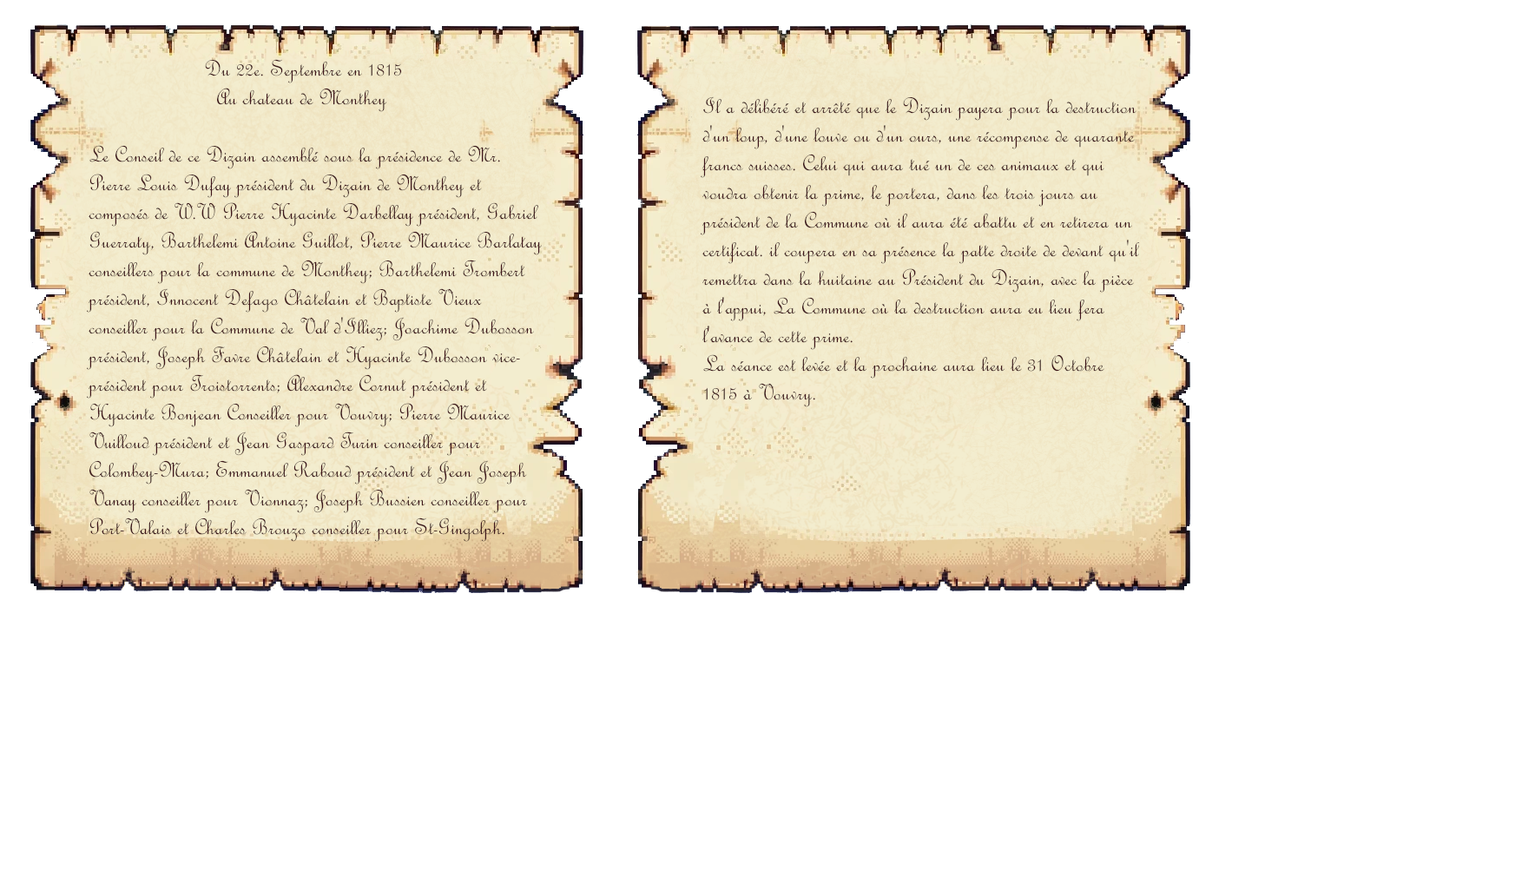
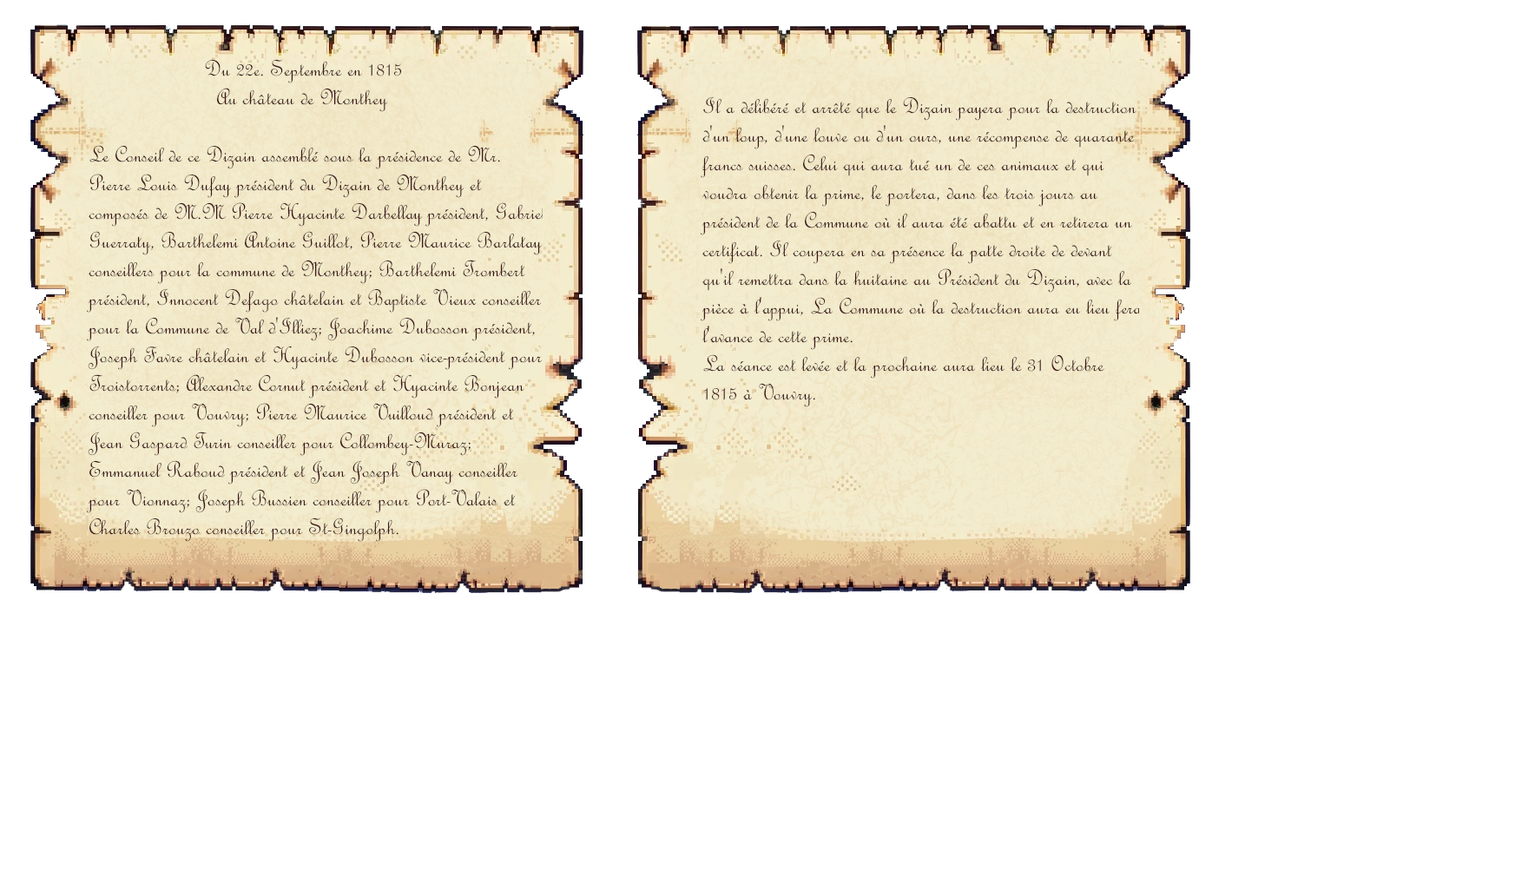
correction orthographe

diff --git a/src/content/Instruction_texte.js b/src/content/Instruction_texte.js
@@ -46,16 +46,16 @@ const french_Pont = [
         "Appuie sur enter pour fermer le carnet",
     ],
     [
-        "Navigue dans le carnet avec la souris et en appuyant sur les flèches droite et gauche du clavier. Pour chaque profil, trouve une ou deux preuves qui excluent la personne d'être celle représentée sur le tableau"
-    ],
+        "Navigue dans le carnet avec la souris et en appuyant sur les flèches droite et gauche du clavier. Trouve, pour chaque personnage, une ou deux preuves qui montrent que ça ne peut pas être la personne représentée sur le tableau"
+    ],                                                                                                     
     [
-        "Pour découvrir à qui appartient le mystérieux tableau, tu vas devoir éliminer un profil après l'autre. Pour cela, tu auras besoin d'indices que tu découvriras en explorant les environs. Découvre ton premier indice et reviens sur cette page !"
+        "Pour découvrir à qui appartient le mystérieux tableau, tu vas devoir éliminer un personnage après l'autre. Pour cela, tu auras besoin d'indices que tu découvriras en explorant les environs. Découvre ton premier indice et reviens sur cette page !"
     ],
     [
         "Appuie sur enter"
     ],
     [
-        "Afin de découvrir à qui appartient le mystérieux tableau, tu vas devoir éliminer un profil après l'autre. Pour se faire, tu vas partir à la chasse à l'indice... quels éléments du texte de la page de droite ou du document de la page de gauche t'indiquent que cette personne n'est pas la bonne ? Dans le cas d'Alphonse Beck, le journal du jour nous indique que nous sommes le 31 octobre 1815, mais Alphonse Beck naît en 1822, il ne peut donc pas être le destinataire du tableau. Dans le profil de Beck, tu vas pouvoir cliquer avec ta souris sur '1822' dans le texte et sur '1815' sur le document, afin d'éliminer Beck de la liste des potentiels propriétaires. Trouve les preuves dans les autres profils jusqu'à ce qu'il ne t'en reste qu'un seul ! Tous les profils ne nécessitent pas deux preuves, parfois il te faudra cliquer une fois, parfois deux. Bonne Chance !"
+        "Tu dois découvrir à qui appartient le mystérieux tableau et le lui remettre en main propre. Tu vas devoir éliminer un personnage après l'autre. Pour ce faire, tu vas partir à la chasse à l'indice... quels éléments du texte de la page de droite ou du document de la page de gauche t'indiquent que cette personne n'est pas la bonne ? Dans le cas d'Alphonse Beck, le journal du jour nous indique que nous sommes le 31 octobre 1815, mais Alphonse Beck naît en 1822, il ne peut donc pas être le destinataire du tableau. Dans le profil de Beck, tu vas pouvoir cliquer avec ta souris sur '1822' dans le texte et sur '1815' sur le document, afin d'éliminer Beck de la liste des propriétaires possibles. Fais de même avec les autres personnage jusqu'à ce qu'il ne t'en reste qu'un seul ! Parfois il te faudra cliquer une fois, parfois deux. Bonne chance !"
     ],
     [
         "Pour l'instant, tu ne peux pas poursuivre ton aventure au-delà du pont !"
@@ -63,8 +63,8 @@ const french_Pont = [
     [
         "Appuie sur e pour traverser le pont"
     ],
-    [
-        "Appuie sur e pour observer dans la charrette"
+    [                      
+        "Appuie sur e pour regarder dans la charrette"
     ],
     [
         "Appuie sur e pour observer le journal"
@@ -90,7 +90,7 @@ const french_Place = [
         "Appuie sur enter pour fermer le carnet",
     ],
     [
-        "Navigue dans le carnet avec la souris et en appuyant sur les flèches droite et gauche du clavier. Pour chaque profil, trouve une ou deux preuves qui excluent la personne d'être celle représentée sur le tableau"
+        "Navigue dans le carnet avec la souris et en appuyant sur les flèches droite et gauche du clavier. Trouve, pour chaque personnage, une ou deux preuves qui montrent que ça ne peut pas être la personne représentée sur le tableau"
     ],
     [
         "Appuie sur e pour lui parler"
@@ -119,7 +119,7 @@ const french_Salon = [
         "Appuie sur enter pour fermer le carnet",
     ],
     [
-        "Navigue dans le carnet avec la souris et en appuyant sur les flèches droite et gauche du clavier. Pour chaque profil, trouve une ou deux preuves qui excluent la personne d'être celle représentée sur le tableau"
+        "Navigue dans le carnet avec la souris et en appuyant sur les flèches droite et gauche du clavier. Trouve, pour chaque personnage, une ou deux preuves qui montrent que ça ne peut pas être la personne représentée sur le tableau"
     ],
     [
         "Appuie sur e pour lui parler"
@@ -236,7 +236,7 @@ const french_carnet = [
         "Appuie sur enter"
     ],
     [
-        "Afin de découvrir à qui appartient le mystérieux tableau, tu vas devoir éliminer un profil après l'autre. Pour ce faire, tu vas partir à la chasse à l'indice... quels éléments du texte de la page de droite ou du document de la page de gauche t'indiquent que cette personne n'est pas la bonne ? Dans le cas d'Alphonse Beck, le journal du jour nous indique que nous sommes le 31 octobre 1815, mais Alphonse Beck naît en 1822, il ne peut donc pas être le destinataire du tableau. Dans le profil de Beck, tu vas pouvoir cliquer avec ta souris sur '1822' dans le texte  et sur '1815' sur le document, afin d'éliminer Beck de la liste des potentiels propriétaires. Trouve les preuves dans les autres profils jusqu'à ce qu'il ne t'en reste qu'un seul! Tous les profils ne nécessitent pas deux preuves, parfois il te faudra cliquer une fois, parfois deux. Bonne Chance !"
+        "Afin de découvrir à qui appartient le mystérieux tableau, tu vas devoir éliminer un personnage après l'autre. Pour ce faire, tu vas partir à la chasse à l'indice... quels éléments du texte de la page de droite ou du document de la page de gauche t'indiquent que cette personne n'est pas la bonne ? Dans le cas d'Alphonse Beck, le journal du jour nous indique que nous sommes le 31 octobre 1815, mais Alphonse Beck naît en 1822, il ne peut donc pas être le destinataire du tableau. Dans le profil de Beck, tu vas pouvoir cliquer avec ta souris sur '1822' dans le texte  et sur '1815' sur le document, afin d'éliminer Beck de la liste des propriétaires possibles. Fais de même avec les autres personnages jusqu'à ce qu'il ne t'en reste qu'un seul! Parfois il te faudra cliquer une fois, parfois deux. Bonne chance !"
     ],
     [
         "Appuie sur e pour lire le recto du document"

diff --git a/src/content/player_dialogues.js b/src/content/player_dialogues.js
@@ -4,10 +4,10 @@
 const french_intro = [
     [   
         "Je suis allée chez mon grand-papa cette après-midi et il m'a donné ce journal.", 
-        "Il appartenait à mon arrière-arrière-arrière-arrière-arrière-arrière grand-père.",
+        "Il appartenait à mon arrière-arrière-arrière-arrière-arrière-arrière-grand-père.",
         "Il a vécu pendant le 19ème siècle. Son métier était de livrer des objets dans le Bas-Valais.",
-        "Dans son journal, il y a les différentes livraisons qu'il a réalisé et des informations sur les personnes qu'il a rencontrées.",
-        "Certaines pages sont tâchées et certaines informations ont disparues.",
+        "Dans son journal, il y a les différentes livraisons qu'il a réalisées et des informations sur les personnes qu'il a rencontrées.",
+        "Certaines pages sont tachées et certaines informations ont disparu.",
         "Sur cette page, il est écrit quelque chose en tout petit... 'à ton tour' ?",
     ]
 ]
@@ -21,8 +21,8 @@ const french_outro = [
     [   
         "ZZzZzz... ZzzZZz...",
         "Quel drôle de rêve... ",
-        "Adrien Pottier, Anne-Marie Folken, Joseph Torrent, Pierre Maurice Rey-Bellet et Michel Dufour... ces rencontres m'ont eu l'air si réelles !",
-        "Je me suis endormie sur le carnet de mon arrière-arrière-arrière-arrière-arrière-arrière grand-père...",
+        "Adrien Pottier, Anne-Marie Folken, Joseph Torrent, Pierre-Maurice Rey-Bellet et Michel Dufour... ces rencontres m'ont eu l'air si réelles !",
+        "Je me suis endormie sur le carnet de mon arrière-arrière-arrière-arrière-arrière-arrière-grand-père...",
         "Oh ! Les profils ont été remplis avec mon écriture, comme dans mon rêve..."
 
     ]
@@ -35,17 +35,17 @@ export const OutroLines = {
 // Dialogues scène pont
 const french_firstPont = [
     [   
-        "Oh! Je ne sais pas ce qu'il s'est passsé, mais j'ai bien l'impression d'être revenue dans le temps !",
+        "Oh! Je ne sais pas ce qui s'est passé, mais j'ai bien l'impression d'être revenue dans le temps !",
         "Je vais explorer les environs pour trouver un moyen de revenir au 21ème siècle !",
 
     ],
     [
-        "C'est le journal de mon arrière-arrière-arrière-arrière-arrière-arrière grand-père, je le reconnais!"
+        "C'est le journal de mon arrière-arrière-arrière-arrière-arrière-arrière-grand-père, je le reconnais!"
     ],
     [
-        "Mon arrière-arrière-arrière-arrière-arrière-arrière grand-père avait une livraison de tableau a effectué aujourd'hui.",
-        "C'est probablement le tableau que j'ai vu dans la charette...",
-        "Malheureusment le nom de la personne a qui il devait livrer le tableau n'est pas lisible à cause d'une tâche de café!",
+        "Mon arrière-arrière-arrière-arrière-arrière-arrière grand-père avait une livraison de tableau à effectuer aujourd'hui.",
+        "C'est probablement le tableau que j'ai vu dans la charrette...",
+        "Malheureusment, le nom de la personne à qui il devait livrer le tableau n'est pas lisible à cause d'une tache de café!",
         "Je dois trouver une personne qui était présente à Monthey pour recevoir ce tableau aujourd'hui !",
         "Peut-être qu'en lisant les pages du journal je trouverai à qui le tableau est destiné !"
     ],

diff --git a/src/content/pnj_dialogues.js b/src/content/pnj_dialogues.js
@@ -6,7 +6,7 @@ const french_pottier = [
         "Bonjour ! ",
         "Je suis Adrien-Félix Pottier, j'ai grandi à Monthey.",
         "Il y a eu beaucoup de grands changements politiques en Valais ces dernières années,",
-        "C'est pour cela que j'ai repoussé mon service militaire !",
+        "c'est pour cela que j'ai repoussé mon service militaire !",
         "J'effectue actuellement mon service militaire sous l'armée fédérale.",
         "Je n'ai pas commandé de portrait me représentant, je ne suis pas la personne que tu cherches !",
         "Désolé. "
@@ -22,11 +22,11 @@ export const pnj_PottierLines = {
 // Dialogue Bellet
 const french_Bellet= [
     [   
-        "Bonjour. Je suis Pierre Maurice Rey-Bellet, on me connaît aussi sous le nom 'Gros Bellet' !",
+        "Bonjour. Je suis Pierre-Maurice Rey-Bellet, on me connaît aussi sous le nom 'Gros-Bellet' !",
         "J'ai eu des ennuis avec le gouverneur Schiner en 1790.",
-        "Il voulait absolument que je paie une amende injuste qui avait été annulée par la Diète !",
+        "Il voulait absolument que je paie une amende injuste que la Diète m'avait annulée !",
         "Il a fini par saisir mon cheval, mais je ne me suis pas laissé faire et je me suis rendu au château de Monthey. ",
-        "Avec d'autres de la Vallée, on a récupéré mon cheval et Schiner s'est effui de peur !",
+        "Avec d'autres de la Vallée, on a récupéré mon cheval et Schiner s'est enfui de peur !",
         "Je ne suis pas la personne que tu recherches, je n'ai pas commandé le tableau dont tu me parles."
 
     ]
@@ -40,8 +40,8 @@ export const pnj_BelletLines = {
 // Dialoggue Torrent
 const french_Torrent = [
     [   
-        "Je m'appelle Jospeh Torrent, je suis agriculteur comme mon père ! Nous faisons principalement de l'élevage de vers à soie.",
-        "Je suis désolée, je n'ai pas commandé de tableau, je ne suis pas la personne que tu cherches !"
+        "Je m'appelle Joseph Torrent, je suis agriculteur comme mon père ! Nous faisons principalement de l'élevage de vers à soie.",
+        "Je suis désolé, je n'ai pas commandé de tableau, je ne suis pas la personne que tu cherches !"
     ]
 ]
 
@@ -56,7 +56,7 @@ const french_Folken = [
     [   
         "Je suis Anne-Marie Folken, je suis couturière à Monthey !",
         "Tu cherches des informations sur Louis Robriquet ? ",
-        "Je ne l'ai pas connu personnelement, mais je sais qu'il est décédé en 1807."
+        "Je ne l'ai pas connu personnellement, mais je sais qu'il est décédé en 1807."
     ]
 ]
 

diff --git a/src/scenes/salon.js b/src/scenes/salon.js
@@ -25,7 +25,7 @@ export default async function salon(k){
         if(layer.name === "Bundaries"){
             drawBoundaries(k, map, layer);
             continue; // Permet d'éviter le else statement 
-        }
+        } 
 
         if (layer.name === "Spawn"){
             for (const object of layer.objects){

diff --git a/src/scenes/house.js b/src/scenes/house.js
@@ -14,7 +14,7 @@ export default async function house(k){
     const bureau = map.add([k.sprite("assets_bureau"),k.pos(32,16),"bureau"])
     const Textes = Textes_Bureau.french_Bureau
 
-    const entities = {
+    const entities = { 
         big_player : null,
         player : null,
         pnj : [],

diff --git a/src/scenes/world.js b/src/scenes/world.js
@@ -23,7 +23,7 @@ export default async function world(k){
         pnj_Dufour : [],
         chat : null
     }
-
+ 
     const layers = mapData.layers;
     for (const layer of layers){
         if(layer.name === "Bundaries"){

diff --git a/src/scenes/pont.js b/src/scenes/pont.js
@@ -21,7 +21,7 @@ export default async function pont(k){
         pnj_ane : [],
         carnet : [],
         pnj_Torrent : []
-    }
+    } 
 
     const layers = mapData.layers;
     for (const layer of layers){

diff --git a/README.md b/README.md
@@ -1,48 +1,49 @@
-# Valais-18  Jeu vidéo
+# Valais-18 - Jeu vidéo
 
 ![](assets/readme/Pont.png)
 
 ## Description du projet
-Ce projet est un jeu vidéo pédagogique de type jeu d'aventure. Le jeu commence au 21ème siècle dans la chambre d'une jeune fille. Celle-ci, en lisant un carnet qui lui a été transmis par son grand-père, voyage dans le temps jusqu'en 1815. Le·la joueur.euse joue le personnage de la petite fille. Le jeu se déroule, ensuite, à Monthey(Valais, Suisse) au début du 19ème siècle. Afin de retourner au 21ème siècle, le·la joueur.euse doit retrouver le propriétaire d'un tableau dont elle doit effectuer la livraison. 
+Ce projet est un jeu vidéo pédagogique de type jeu d'aventure. Le jeu commence au 21ème siècle dans la chambre d'une jeune fille. Celle-ci, en lisant un carnet qui lui a été transmis par son grand-père, voyage dans le temps jusqu'en 1815. Le·la joueur.euse joue le personnage de la petite fille. Le jeu se déroule, ensuite, à Monthey (Valais, Suisse) au début du 19ème siècle. Afin de retourner au 21ème siècle, le·la joueur.euse doit retrouver le propriétaire d'un tableau dont elle doit effectuer la livraison. 
 
+tableau de l'inconnu
 ![](assets/readme/Dufour.png)
 
 ## Objectif du jeu
 L'objectif de ce jeu est la découverte de dix personnages qui ont marqué l'histoire du Bas-Valais et plus spécifiquement la ville de Monthey, à la fin du 18ème siècle et au cours du 19ème siècle. Plus spécifiquement, l'objectif est de découvrir Michel Dufour, signataire de l'acte de réunion du Valais à la Confédération helvétique. 
 
-De plus, ce jeu a été pensé pour appartenir à un corpus de dix cours enseignés au secondaire en Valais francophone. Puisque ce jeu appartient au dernier cours du corpus, il a été pensé comme récompense pour les élèves. L'objectif était donc de proposer un jeu, d'une part éducatif, mais aussi récréatif. 
+De plus, ce jeu a été pensé pour appartenir à un corpus de dix cours enseignés au secondaire en Valais francophone. Puisque ce jeu appartient au dernier cours du corpus, il a été pensé comme récompense pour les élèves. L'objectif était donc de proposer un jeu, d'une part, éducatif, mais aussi récréatif. 
 
 ## Processus de Développement
-Le jeu a été pensé en collaboration avec Madame Cindy Jaggy et Monsieur Pierre Abbet qui sont les responsables du corpus de cours intitulé Valais-18. A partir de leurs demandes et besoins le jeu a été pensé autour du Bas-Valais, des portraits et spécifiquement de Michel Dufour. L'idée d'un carnet et d'indices comme fil rouge a été inspiré par le jeu Phasmophobia. A l'origine, il devait s'y trouver douze portraits, mais il a été décidé de réduire à dix pour s'assurer de ne pas perdre l'attention des élèves avec un surplu d'informations. Les portraits des personnages présents dans le carnet sont historiquement corrects. J'ai effectué les recherches et les textes pour les portraits, Madame Jaggy et Monsieur Abbet ont eu la gentilesse de retravailler les textes pour que le style soit accessible et captivant pour les élèves. De plus, Madame Jaggy a effectué la relecture orthographique du jeu.
+Le jeu a été pensé en collaboration avec Madame Cindy Jaggy et Monsieur Pierre Abbet qui sont les responsables du corpus de cours intitulé Valais-18. A partir de leurs demandes et besoins le jeu a été pensé autour du Bas-Valais, des portraits et spécifiquement de Michel Dufour. L'idée d'un carnet et d'indices comme fil rouge a été inspiré par le jeu Phasmophobia. A l'origine, il devait s'y trouver douze portraits, mais il a été décidé de réduire à dix pour s'assurer de ne pas perdre l'attention des élèves avec un surplus d'informations. Les portraits des personnages présents dans le carnet sont historiquement corrects. J'ai effectué les recherches et les textes pour les portraits, Madame Jaggy et Monsieur Abbet ont eu la gentillesse de retravailler les textes pour que le style soit accessible et captivant pour les élèves. De plus, Madame Jaggy a effectué la relecture orthographique du jeu.
 
-En ce qui concerne les scènes, le jeu s'insipire d'éléments caractéristiques de Monthey en 1815 comme le pont couvert(construit en 1809) ou le fait que la place n'était pas encore "percée"(1932). Toutefois quelque liberté ont été prises: les bâtiments extérieurs et intérieurs ne sont pas des reproductions, la présence d'un tableau de De rivaz dans un bâtiment, la présence d'une fontaine sur la place(la fontaine a été déplacée sur la place en 1932), la présence des personnages historiques à Monthey le 31 octobre 1815, le lien relationel entre Anne-Marie Folken et Louis Robriquet. Le personnage de l'arrière-arrière-arrière-arrière-arrière-arrière grand-père est complétement inventé. 
+En ce qui concerne les scènes, le jeu s'inspire d'éléments caractéristiques de Monthey en 1815 comme le pont couvert (construit en 1809) ou le fait que la place n'était pas encore "percée"(1932). Toutefois quelque liberté ont été prises : les bâtiments extérieurs et intérieurs ne sont pas des reproductions, la présence d'un tableau de De rivaz dans un bâtiment, la présence d'une fontaine sur la place(la fontaine a été déplacée sur la place en 1932), la présence des personnages historiques à Monthey le 31 octobre 1815, le lien relationnel entre Anne-Marie Folken et Louis Robriquet. Le personnage de l'arrière-arrière-arrière-arrière-arrière-arrière-grand-père est complétement inventé. 
 
-Les documents historiques présents dans le jeu sont des documents d'archives conservée aux archives de l'Etat du Valais. Ils ont été selectionnés après avoir été consulté sur place, puis ils ont été généreusement numérisés par les AEV. Les documents ont été selectionnés selon deux critères : leur difficultés de compréhension et leur lien avec un personnage. Il était nécessaire de trouver un document dont le contenu n'était pas trop difficile à comprendre pour les élèves, mais aussi qui faisait sens dans le scénario du jeu. Les documents ont été reproduits dans le style graphique du jeu, les texte retranscrits et partiellement modifiés( des parties des documents ont été ignorées, des fautes d'orthographes n'ont pas été reproduites). Le principale changement qui a été effectué concerne CH AEV, Jean Marclay, P 664, le texte "et la prochaine aura lieu le 31 Octobre 1815 à Vouvry" a été inventé, le reste du document est authentique. 
+Les documents historiques présents dans le jeu sont des documents d'archives conservée aux archives de l'Etat du Valais. Ils ont été sélectionnés après avoir été consulté sur place, puis ils ont été généreusement numérisés par les AEV. Les documents ont été choisis selon deux critères : leur difficulté de compréhension et leur lien avec un personnage. Il était nécessaire de trouver un document dont le contenu n'était pas trop difficile à comprendre pour les élèves, mais aussi qui faisait sens dans le scénario du jeu. Les documents ont été reproduits dans le style graphique du jeu, les texte retranscrits et partiellement modifiés (des parties des documents ont été ignorées, des fautes d'orthographes n'ont pas été reproduites). Le principal changement qui a été effectué concerne CH AEV, Jean Marclay, P 664, le texte "et la prochaine aura lieu le 31 Octobre 1815 à Vouvry" a été inventé, le reste du document est authentique. 
 
-CH AEV, Vieux Monthey, 1436 et sa reproduction
+CH AEV, Vieux Monthey, 1436 et sa reproduction.
 ![](assets/readme/09-CH-AEV-Vieux-Monthey-1346_001.png)
 ![](assets/readme/papier_2.png)
 
 
-Les éléments graphiques du jeu ont été crée avec Dall-E, puis modifié avec Gimp. 
+Les éléments graphiques du jeu ont été créés avec Dall-E, puis modifiés avec Gimp. 
 
 Avant modifications.
 ![](assets/readme/scène_intro_4.png)
-Après modifictions. 
+Après modifications. 
 ![](assets/readme/scene_intro_1.png)
 
-Le jeu propose une version adaptée aux personnes malvoyantes et dyslexique. Une première version du jeu ne proposait pas cette option et lors d'un test réalisé auprès d'une personne travaillant avec des personnes malvoillante, celle-ciâ fait remarqué que le jeu serait très difficile, vois inaccessible pour les personnes dyslexiques et malvoillantes. De ce fait, une autre version du jeu a été crée dans laquelle les polices "Jupiter Crash BRK" et "Mistral" ont été remplacée par la police "Luciole", la police "French Script MT" par la police "Verdana". 
+Le jeu propose une version adaptée aux personnes malvoyantes ou dyslexiques. Une première version du jeu ne proposait pas cette option et lors d'un test réalisé auprès d'une personne travaillant avec des personnes malvoillantes, celle-ci a fait remarqué que le jeu serait très difficile, vois inaccessible aux les personnes dyslexiques ou malvoillantes. De ce fait, une autre version du jeu a été créée dans laquelle les polices "Jupiter Crash BRK" et "Mistral" ont été remplacées par la police "Luciole" et la police "French Script MT" par la police "Verdana". 
 
-Version du carnet avec et sans adaptations pour les personnes malvoillantes et dyslexiques.
+Version du carnet avec et sans adaptations pour les personnes malvoillantes ou dyslexiques.
 ![](assets/readme/carnet_3_2.png)
 ![](assets/readme/Lecture_carnet_3_2.png)
 
-L'absence de femmes dans les portraits représentait un problème. De ce fait, il a été choisi que le personnage principale serait une fille et qu'il n'y aurait pas de possibilité de choisir le genre de son personnage. De plus, le personnage de Anne-Marie Folken a été ajouté pour présenté Louis Robriquet. Elle est mentionnée dans un document d'archive consultés aux AEV(CH AEV, Vieux-Monthey, 472) et il a été décidé de l'inclure dans le jeux.  
+L'absence de femmes dans les portraits représentait un problème. De ce fait, il a été choisi que le personnage principale serait une fille et qu'il n'y aurait pas de possibilité de choisir le genre de son personnage. De plus, le personnage de Anne-Marie Folken a été ajouté pour présenter Louis Robriquet. Elle est mentionnée dans un document d'archive consultés aux AEV(CH AEV, Vieux-Monthey, 472) et il a été décidé de l'inclure dans le jeux.  
 
 ## **Outils utilisés**
 - Ce projet a été réalisé en utilisant la librairie Kaboom.js, Visual Studio Code et Tiled.
 
-- Toutes les images ont été générées par Dall-E et modifiée avec Gimp.
+- Toutes les images ont été générées par Dall-E et modifiées avec Gimp.
 
 - Les documents d'archives ont été numérisés par les Archives de l'Etat du Valais.
 
